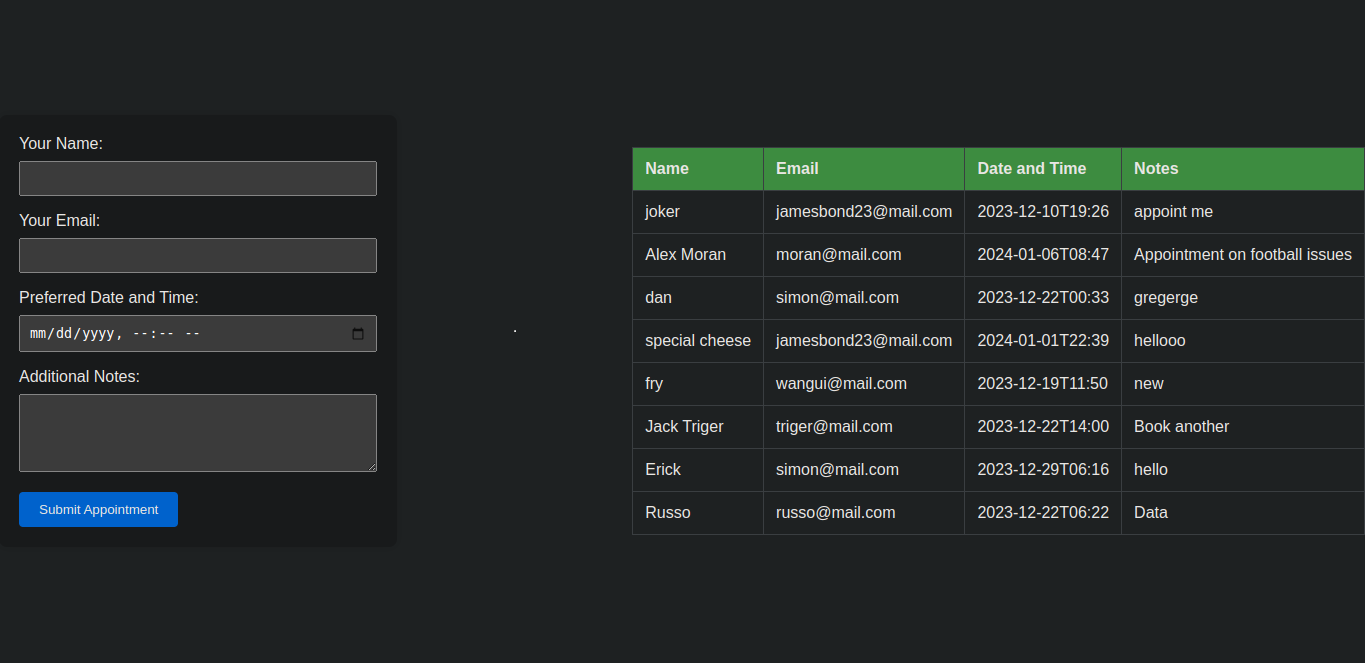
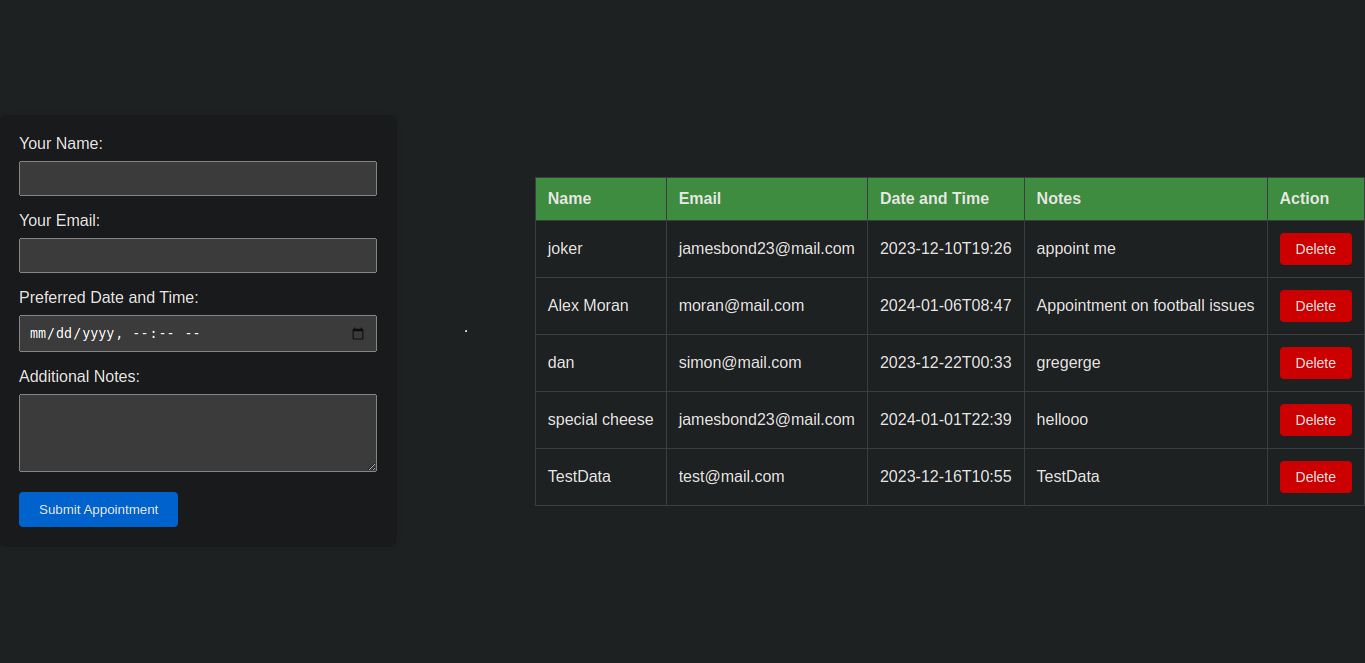
added delete feature

diff --git a/js/custom.js b/js/custom.js
@@ -7,6 +7,7 @@ function escapeHtml(unsafe) {
     })[m]);
 }
 
+function getData(){
 // Fetch data 
 fetch('php/display_appointments.php')
     .then(response => response.json())
@@ -19,6 +20,7 @@ fetch('php/display_appointments.php')
                     <th>Email</th>
                     <th>Date and Time</th>
                     <th>Notes</th>
+                    <th>Action</th>
                 </tr>
             </thead>
             <tbody>
@@ -28,10 +30,38 @@ fetch('php/display_appointments.php')
                         <td>${escapeHtml(appointment.email)}</td>
                         <td>${escapeHtml(appointment.datetime)}</td>
                         <td>${escapeHtml(appointment.notes)}</td>
+                        <td><button class="delete-button" onclick="deleteAppointment(${appointment.id})">Delete</button></td>
                     </tr>
                 `).join('')}
             </tbody>
         `;
+        document.getElementById('appointmentList').innerHTML = '';
         document.getElementById('appointmentList').appendChild(table);
     })
     .catch(error => console.error('Error fetching data:', error));
+}
+    // Function to delete an appointment 
+function deleteAppointment(id) {
+    // Send a request to the server to delete the appointment
+    fetch('php/delete_appointment.php', {
+        method: 'POST',
+        headers: {
+            'Content-Type': 'application/json',
+        },
+        body: JSON.stringify({ id: id }),
+    })
+    .then(response => response.json())
+    .then(result => {
+        if (result.success) {
+            // If the deletion is successful, refresh the table
+            getData();
+        } else {
+            console.error('Error deleting appointment:', result.error);
+        }
+    })
+    .catch(error => console.error('Error deleting appointment:', error));
+}
+
+
+
+getData();

diff --git a/css/custom.css b/css/custom.css
@@ -72,3 +72,20 @@ th {
         text-align: left;
     }
 }
+
+.delete-button {
+    background-color: red; 
+    color: white;
+    border: none;
+    padding: 8px 16px;
+    text-align: center;
+    text-decoration: none;
+    display: inline-block;
+    font-size: 14px;
+    cursor: pointer;
+}
+
+
+.delete-button:hover {
+    background-color: #ff4d4d; /* Darker red  */
+}

diff --git a/php/delete_appointment.php b/php/delete_appointment.php
@@ -1,0 +1,23 @@
+<?php
+include 'db_connection.php';
+
+// Get the appointment ID from the request
+$data = json_decode(file_get_contents('php://input'), true);
+$id = $data['id'];
+
+try {
+    // Delete the appointment with the given ID
+    $stmt = $conn->prepare("DELETE FROM appointments WHERE id = :id");
+    $stmt->bindParam(':id', $id);
+    $stmt->execute();
+
+    // Return success
+    echo json_encode(['success' => true]);
+} catch (PDOException $e) {
+    // Return an error message
+    echo json_encode(['success' => false, 'error' => 'Error deleting appointment: ' . $e->getMessage()]);
+}
+
+// Close the database connection
+$conn = null;
+?>
